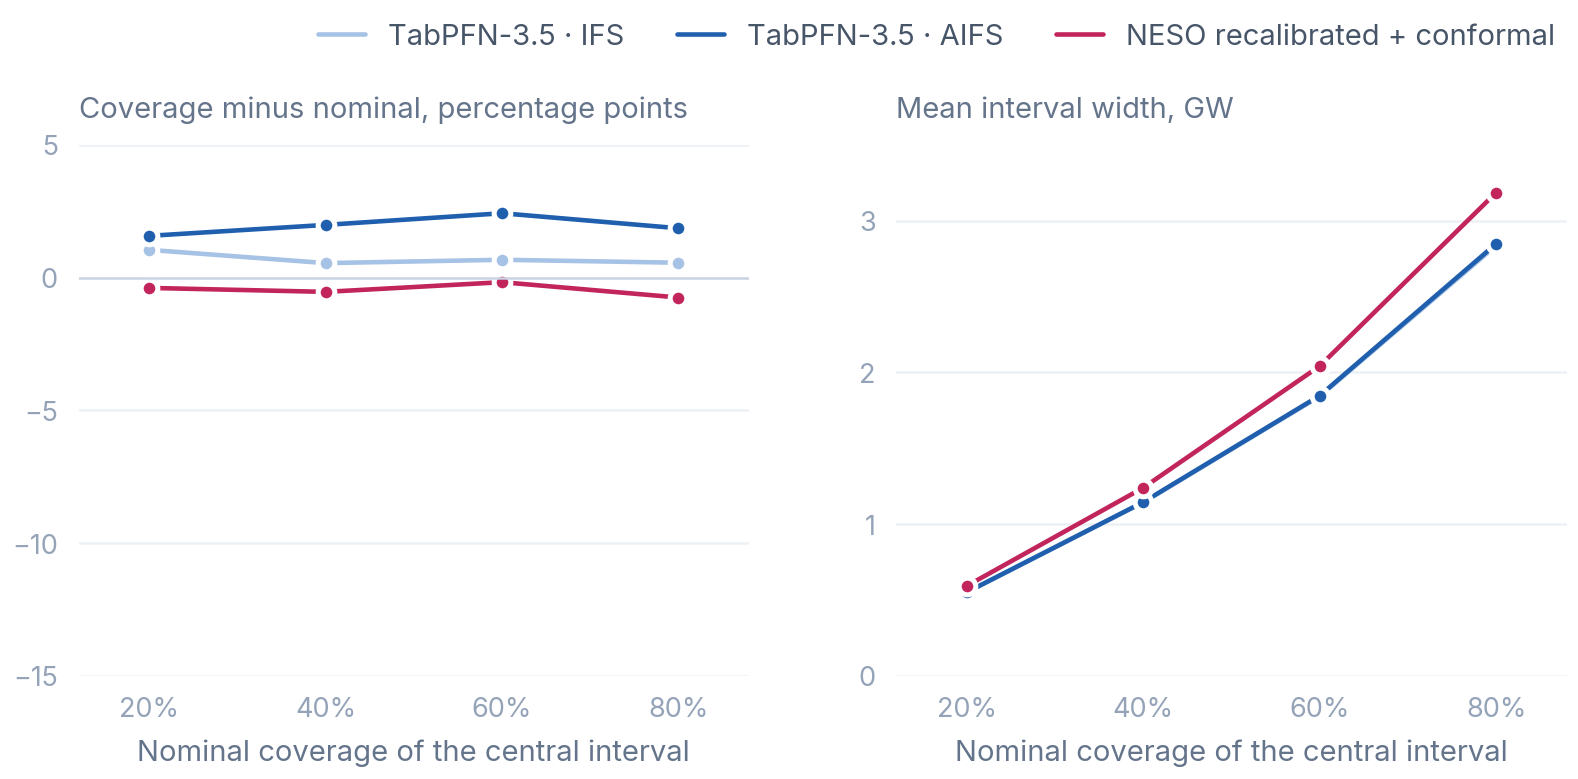
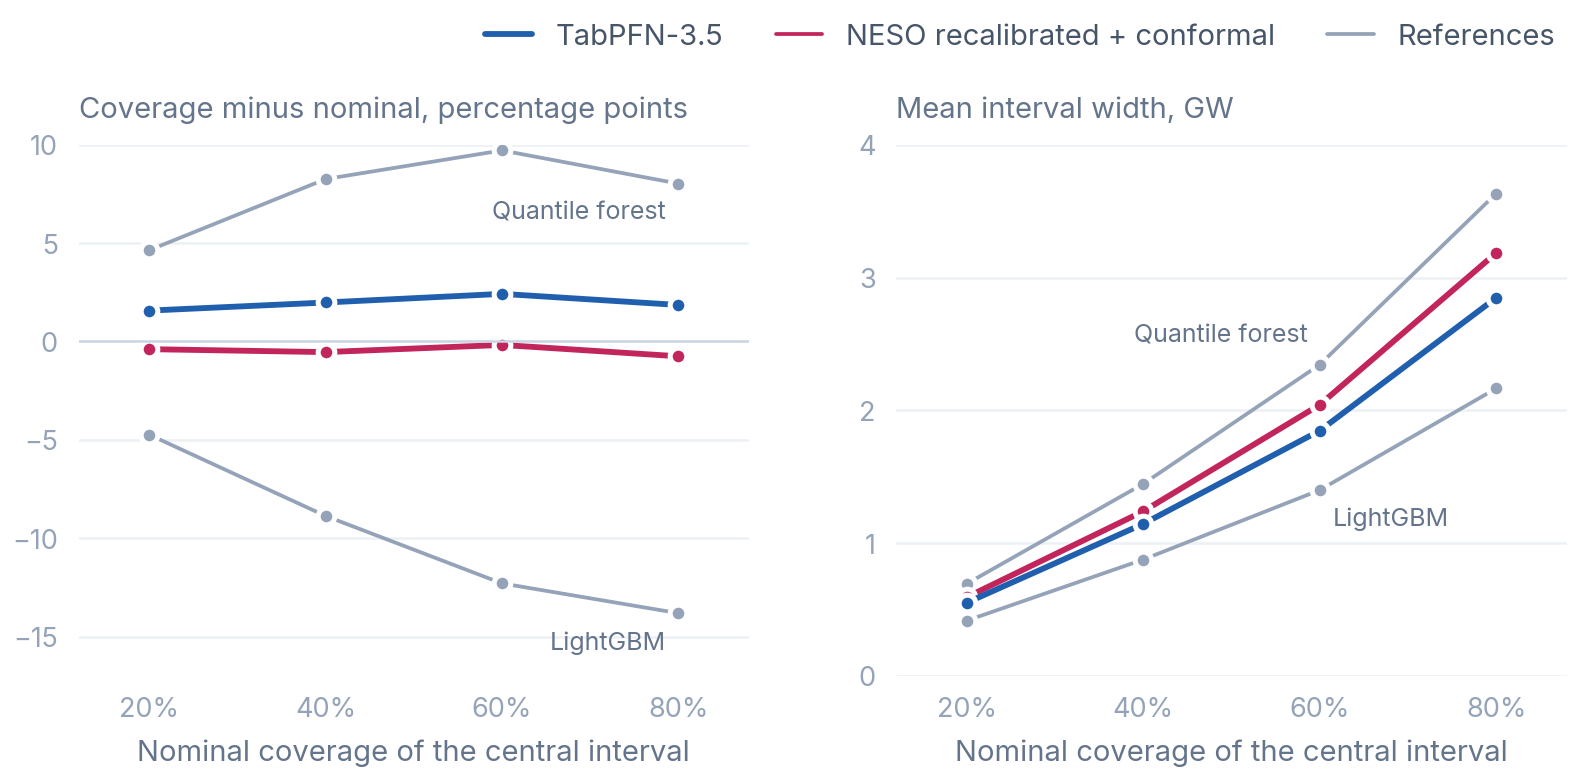
Calibrate against the tuned references on identical inputs

diff --git a/notebooks/03_test.py b/notebooks/03_test.py
@@ -143,8 +143,9 @@ def _(forecasts, mdates, plt, sources, style):
 def _(mo):
     mo.md(r"""
     Calibration and sharpness of the central intervals the deciles give, nominal coverage 20%
-    to 80%, against the conformal reference from `04`. A forecast should sit on zero on the
-    left; among those that do, narrower on the right is better.
+    to 80%, on identical AIFS inputs: TabPFN-3.5, the tuned LightGBM and quantile regression
+    forest from `04`, and the conformal reference. A forecast should sit on zero on the left;
+    among those that do, narrower on the right is better.
     """)
     return
 
@@ -153,10 +154,12 @@ def _(mo):
 def _(forecasts, plt, sources, style):
     _p = style.PALETTE
     runs_shown = {
-        "tabpfn+windfor ifs": ("TabPFN-3.5 · IFS", _p["fan"][2]),
-        "tabpfn+windfor aifs": ("TabPFN-3.5 · AIFS", _p["median"]),
+        "lightgbm": ("LightGBM", _p["faint"]),
+        "qrf": ("Quantile forest", _p["faint"]),
         "conformal": ("NESO recalibrated + conformal", _p["incumbent"]),
+        "tabpfn+windfor aifs": ("TabPFN-3.5", _p["median"]),
     }
+    references = ("lightgbm", "qrf")
     levels = [20, 40, 60, 80]
 
     figure_calibration, (coverage_ax, width_ax) = plt.subplots(1, 2, figsize=(style.WIDTH, 2.3), gridspec_kw={"wspace": 0.22})
@@ -166,10 +169,16 @@ def _(forecasts, plt, sources, style):
         _coverage = [100 * forecasts.y.between(_low, _high).mean() - _level for _low, _high, _level in zip(_lower, _upper, levels)]
         _width = [(_high - _low).mean() / 1e3 for _low, _high in zip(_lower, _upper)]
         for _axis, _values in ((coverage_ax, _coverage), (width_ax, _width)):
-            _axis.plot(levels, _values, color=_colour, marker="o", ms=4, mec=_p["bg"], mew=1.2)
+            _axis.plot(levels, _values, color=_colour, marker="o", ms=4, mec=_p["bg"], mew=1.2,
+                       lw=0.9 if _run in references else 1.4)
+            if _run in references:
+                _at, _side = (3, "right") if _axis is coverage_ax else (2, "right" if _run == "qrf" else "left")
+                _up = _axis is width_ax and _run == "qrf"
+                _axis.annotate(_label, (levels[_at], _values[_at]), xytext=(-3 if _side == "right" else 3, 7 if _up else -7),
+                               textcoords="offset points", ha=_side, va="center", color=_p["muted"], fontsize=6)
     coverage_ax.axhline(0, color=_p["rule"], lw=0.6)
-    coverage_ax.set(ylim=(-15, 5), yticks=[-15, -10, -5, 0, 5])
-    width_ax.set(ylim=(0, 3.5), yticks=[0, 1, 2, 3])
+    coverage_ax.set(ylim=(-17, 10), yticks=[-15, -10, -5, 0, 5, 10])
+    width_ax.set(ylim=(0, 4), yticks=[0, 1, 2, 3, 4])
     for _axis in (coverage_ax, width_ax):
         _axis.set(xlim=(12, 88), xticks=levels)
         _axis.set_xticklabels([f"{_level}%" for _level in levels])
@@ -177,8 +186,9 @@ def _(forecasts, plt, sources, style):
     style.header(width_ax, "Mean interval width, GW")
     for _axis in (coverage_ax, width_ax):
         _axis.set_xlabel("Nominal coverage of the central interval")
-    figure_calibration.legend([style.line(_colour) for _, _colour in runs_shown.values()],
-                              [_label for _label, _ in runs_shown.values()], loc="lower right",
+    _legend = {"tabpfn+windfor aifs": "TabPFN-3.5", "conformal": "NESO recalibrated + conformal", "lightgbm": "References"}
+    figure_calibration.legend([style.line(runs_shown[_run][1], 1.4 if _run == "tabpfn+windfor aifs" else 0.9) for _run in _legend],
+                              list(_legend.values()), loc="lower right",
                               bbox_to_anchor=(width_ax.get_position().x1, 1.0), ncol=4)
     figure_calibration.savefig(sources.ROOT / "assets" / "calibration.png")
     figure_calibration

diff --git a/README.md b/README.md
@@ -23,12 +23,6 @@ TabPFN-3.5 read ECMWF IFS weather in the pre-registered test; the AIFS rerun rep
 
 ## Why TabPFN
 
-**Calibration.** TabPFN-3.5's central intervals are within 2.5 points of nominal coverage at every level, with no calibration step, and its 80% interval is 11% narrower than the conformal one.
-
-![Left: coverage minus nominal, for intervals of nominal coverage 20% to 80%. Right: mean interval width.](assets/calibration.png)
-
-*Coverage minus nominal, for intervals of nominal coverage 20% to 80% (left), and mean interval width (right).*
-
 **Against tuned references.** A quantile LightGBM and a quantile regression forest were given TabPFN-3.5's exact AIFS inputs, context and monthly refits, with hyperparameters chosen by CRPS on Jul–Dec 2024 ([`04`](notebooks/04_references.py)):
 
 | MW | MAE | ΔMAE vs TabPFN-3.5 [95% CI] | CRPS | 80% interval coverage | Winkler |
@@ -37,7 +31,13 @@ TabPFN-3.5 read ECMWF IFS weather in the pre-registered test; the AIFS rerun rep
 | LightGBM | 891 | +16 [−4, +36] | 706 | 66.2% | 4,325 |
 | Quantile regression forest | 901 | +25 [+8, +44] | 713 | 88.0% | 4,279 |
 
-The medians are close; the distributions are not. LightGBM's 80% interval holds 66% of hours and the forest's 88%. With the context cut to 250 rows a month, TabPFN-3.5 still beats NESO, at 921 MW; LightGBM falls to 1,148 and the forest to 1,051.
+**Calibration.** The medians are close; the distributions are not. On these identical inputs, TabPFN-3.5's central intervals are within 2.5 points of nominal coverage at every level, with no calibration step. LightGBM's fall 5 to 14 points short and the forest's run 5 to 10 over. The conformal band, calibrated by construction on NESO's own errors, sits on nominal but is 10% wider than TabPFN-3.5's at 80%.
+
+![Left: coverage minus nominal, for intervals of nominal coverage 20% to 80%. Right: mean interval width. TabPFN-3.5, LightGBM, the quantile forest and the conformal reference, on identical inputs.](assets/calibration.png)
+
+*Coverage minus nominal, for intervals of nominal coverage 20% to 80% (left), and mean interval width (right).*
+
+**Less context.** With the context cut to 250 rows a month, TabPFN-3.5 still beats NESO, at 921 MW; LightGBM falls to 1,148 and the forest to 1,051.
 
 ![Held-out MAE against context rows per monthly fit, for TabPFN-3.5, the two references and NESO.](assets/scaling.png)
 
